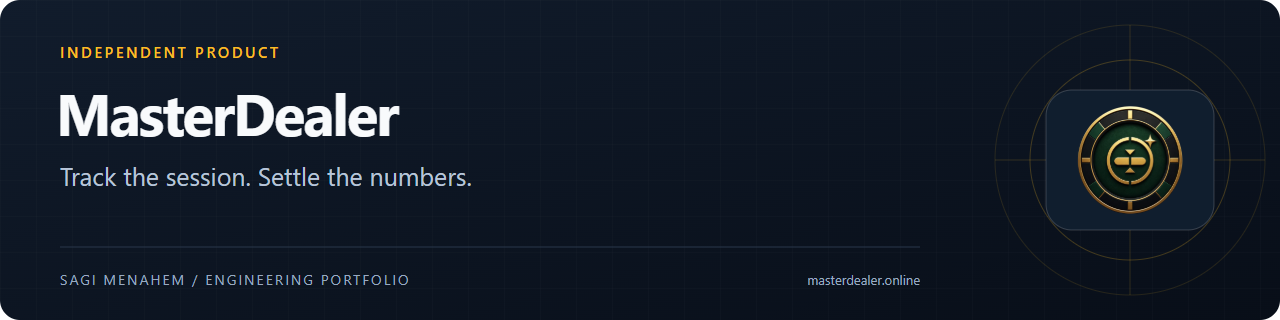
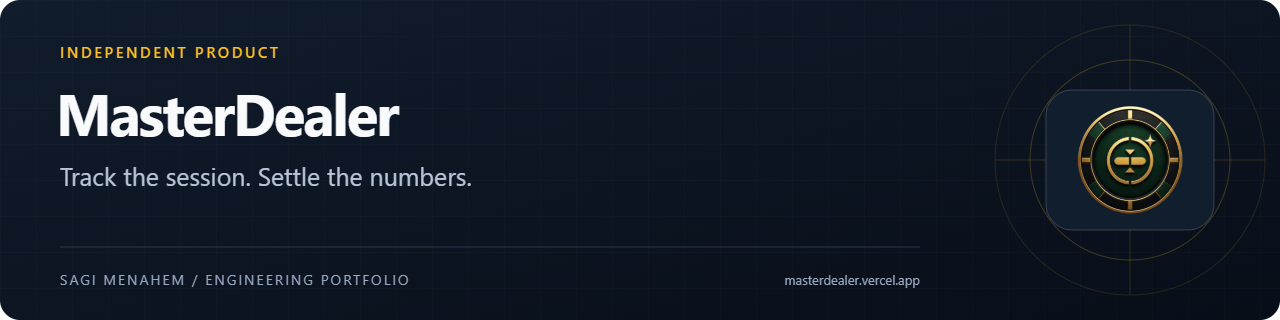
Point the live link to masterdealer.vercel.app
masterdealer.online is not being renewed; the app now lives on its Vercel address.

diff --git a/README.md b/README.md
@@ -4,7 +4,7 @@
 
 MasterDealer is an independent poker-session tracker for groups that want a shared, reliable view of buy-ins, cash-outs, settlements, and long-term records. It modernizes a legacy Android and Firebase workflow into a web product that participants can use together while a game is in progress.
 
-**Project type:** independent product · **Role:** sole designer and engineer · **Source:** private; this repository is a public case study. · [Visit MasterDealer](https://masterdealer.online)
+**Project type:** independent product · **Role:** sole designer and engineer · **Source:** private; this repository is a public case study. · [Visit MasterDealer](https://masterdealer.vercel.app)
 
 ## Preview
 
